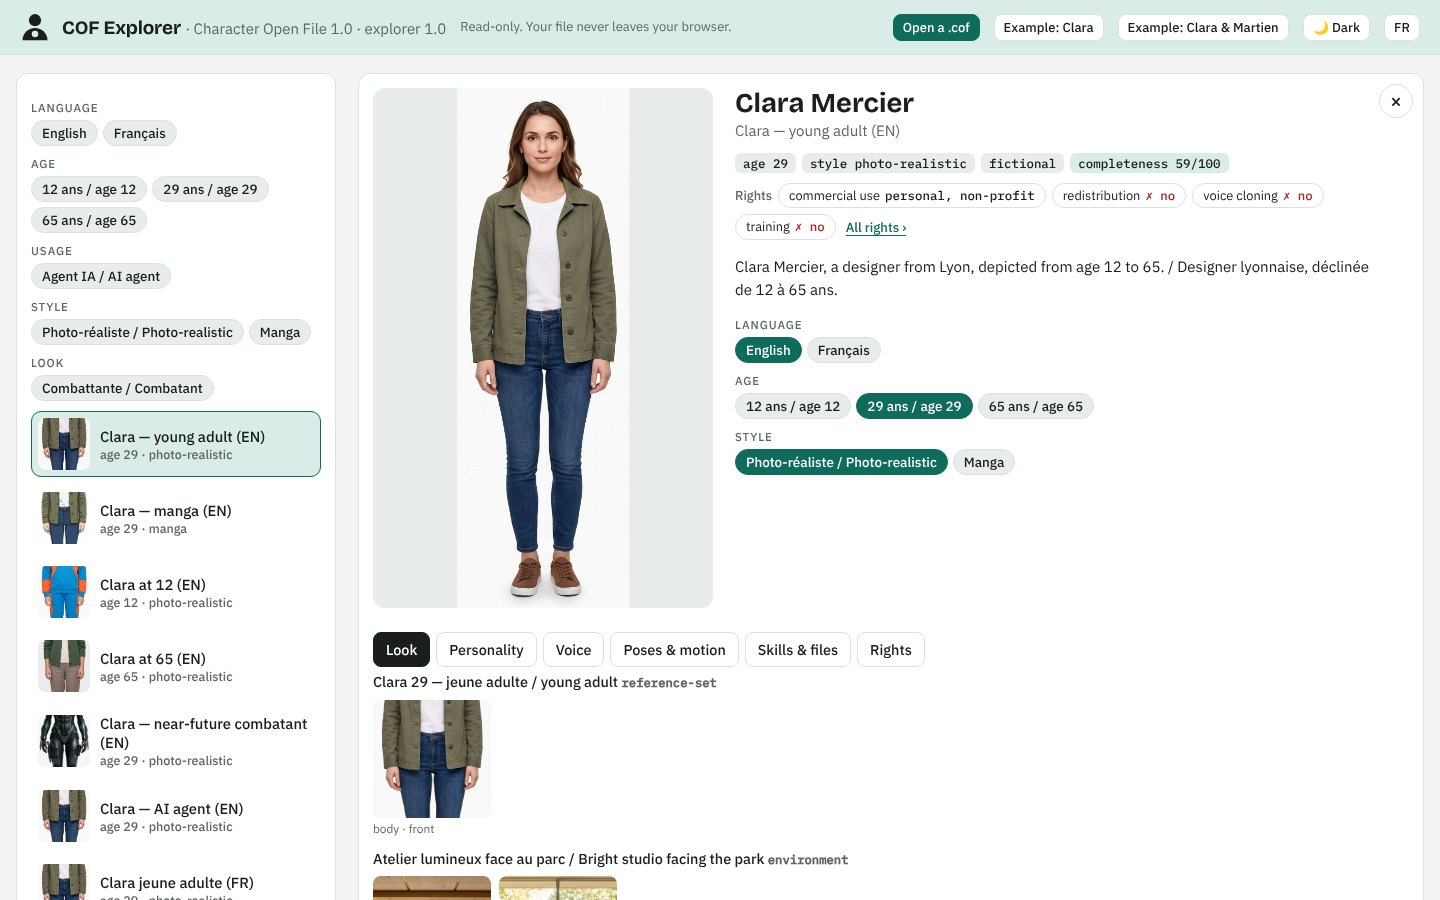
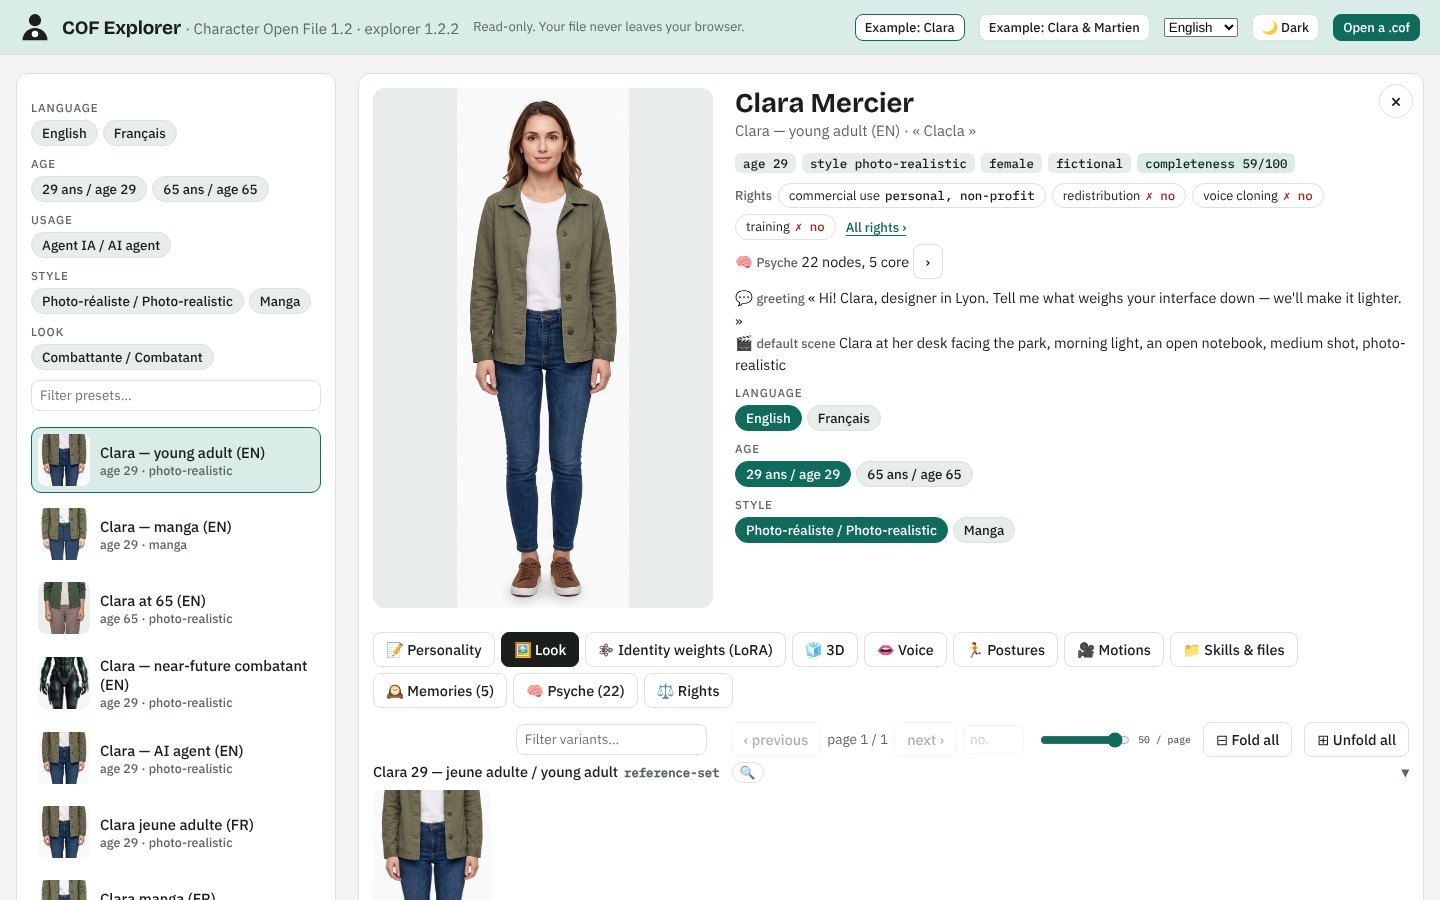
README figure of the explorer: current explorer, no age under 18 on screen
docs/img/cof-explorer.jpg was a 1.0 capture showing Clara's childhood variant
(« 12 ans / age 12 », « Clara at 12 »). Rendered again from the 1.2.2 explorer with
the same rule as the share cards; `python tools/readme-figures/render.py explorer`
renders this figure alone. The memory article figures are left as they are
(the owner's decision: a childhood memory of an adult character, not promoted).

Claude-Session: https://claude.ai/code/session_01CMATJLnayM1aeWbdkE6sfv

diff --git a/tools/readme-figures/render.py b/tools/readme-figures/render.py
@@ -1,5 +1,8 @@
 """Renders the README figures into docs/img/ (needs Playwright + Chromium and a local server at the repo root:
-`python -m http.server 8765`). Diagrams from figures.html; slides from the launch clip; screenshots of the tools."""
+`python -m http.server 8765`). Diagrams from figures.html; slides from the launch clip; screenshots of the tools.
+`python render.py explorer` renders only docs/img/cof-explorer.jpg.
+Rule for public captures: no age under 18 on screen. Clara's example has a childhood variant, so the explorer capture drops
+every listed item that states one (age chips, preset rows, the summary line) and stops if one is left (same rule as tools/og-cards)."""
 import asyncio, io, sys
 from pathlib import Path
 from PIL import Image
@@ -14,10 +17,31 @@ def save_jpeg(png: bytes, path: Path, width: int = 1600):
     im.save(path, quality=86, optimize=True, progressive=True)
 
 
+MINOR = r"(?:\b(?:age|aged|at|âge|de|à)\s*(?:1[0-7]|[0-9])\b|\b(?:1[0-7]|[0-9])\s*(?:ans|years?|yo)\b)"
+DROP = """([re, sel]) => { const R = new RegExp(re, "i"); let n = 0; for (const e of document.querySelectorAll(sel)) if (R.test(e.innerText || "")) { e.remove(); n++; } return n; }"""
+LEFT = """(re) => { const R = new RegExp(re, "i"), out = []; const w = document.createTreeWalker(document.body, NodeFilter.SHOW_TEXT);
+  while (w.nextNode()) { const n = w.currentNode, e = n.parentElement, r = e && e.getBoundingClientRect(); if (r && r.width > 0 && r.height > 0 && r.bottom > 0 && r.top < innerHeight && R.test(n.textContent)) out.push(n.textContent.trim().slice(0, 40)); } return out; }"""
+
+
+async def explorer_shot(br):
+    """The explorer with Clara opened, light theme, English, with no age under 18 on screen."""
+    shots = await br.new_page(viewport={"width": 1440, "height": 900}, color_scheme="light")
+    await shots.add_init_script("try { localStorage.setItem('cof-theme', 'light'); localStorage.setItem('cofv-lang', 'en'); } catch (e) {}")
+    await shots.goto(f"{BASE}/viewer/"); await shots.click("#btnClara"); await shots.wait_for_selector(".pcard", timeout=20000); await shots.wait_for_timeout(4000)
+    gone = await shots.evaluate(DROP, [MINOR, "button.chip, button.pcard, .hero p.text"]); await shots.wait_for_timeout(300)
+    left = await shots.evaluate(LEFT, MINOR)
+    if left: raise SystemExit("explorer: an age under 18 is still on screen: " + " ; ".join(left))
+    print("explorer:", gone, "item(s) stating an age under 18 removed before the capture")
+    save_jpeg(await shots.screenshot(), OUT / "cof-explorer.jpg", 1440)
+    return shots
+
+
 async def main():
     OUT.mkdir(parents=True, exist_ok=True)
     async with async_playwright() as p:
         br = await p.chromium.launch()
+        if sys.argv[1:] == ["explorer"]:
+            await explorer_shot(br); await br.close(); return
         pg = await br.new_page(viewport={"width": 1700, "height": 1000}, device_scale_factor=1)
         await pg.goto(f"{BASE}/tools/readme-figures/figures.html"); await pg.evaluate("document.fonts.ready"); await pg.wait_for_timeout(400)
         for fid in ("contents", "tools", "comfy"):
@@ -33,9 +57,7 @@ async def main():
         await clip.goto(f"{BASE}/clip/index.html?render"); await clip.evaluate("document.fonts.ready"); await clip.wait_for_timeout(500)
         for name, t in (("presets", 21.6), ("rights", 27.0), ("cast", 31.0)):   # clip times: Français + 29 on, every rights row in, both characters in
             await clip.evaluate(f"render({t})"); save_jpeg(await clip.screenshot(), OUT / f"cof-{name}.jpg")
-        shots = await br.new_page(viewport={"width": 1440, "height": 900}, color_scheme="light")
-        await shots.goto(f"{BASE}/viewer/#clara"); await shots.wait_for_selector(".pcard", timeout=20000); await shots.wait_for_timeout(1500)
-        save_jpeg(await shots.screenshot(), OUT / "cof-explorer.jpg", 1440)
+        shots = await explorer_shot(br)
         await shots.goto(f"{BASE}/builder/"); await shots.wait_for_timeout(1200)
         await shots.select_option("#langSel", "en"); await shots.wait_for_timeout(400)
         await shots.set_input_files("#fileOpen", str(ROOT / "viewer/samples/clara-mercier.cof")); await shots.wait_for_timeout(4000)
